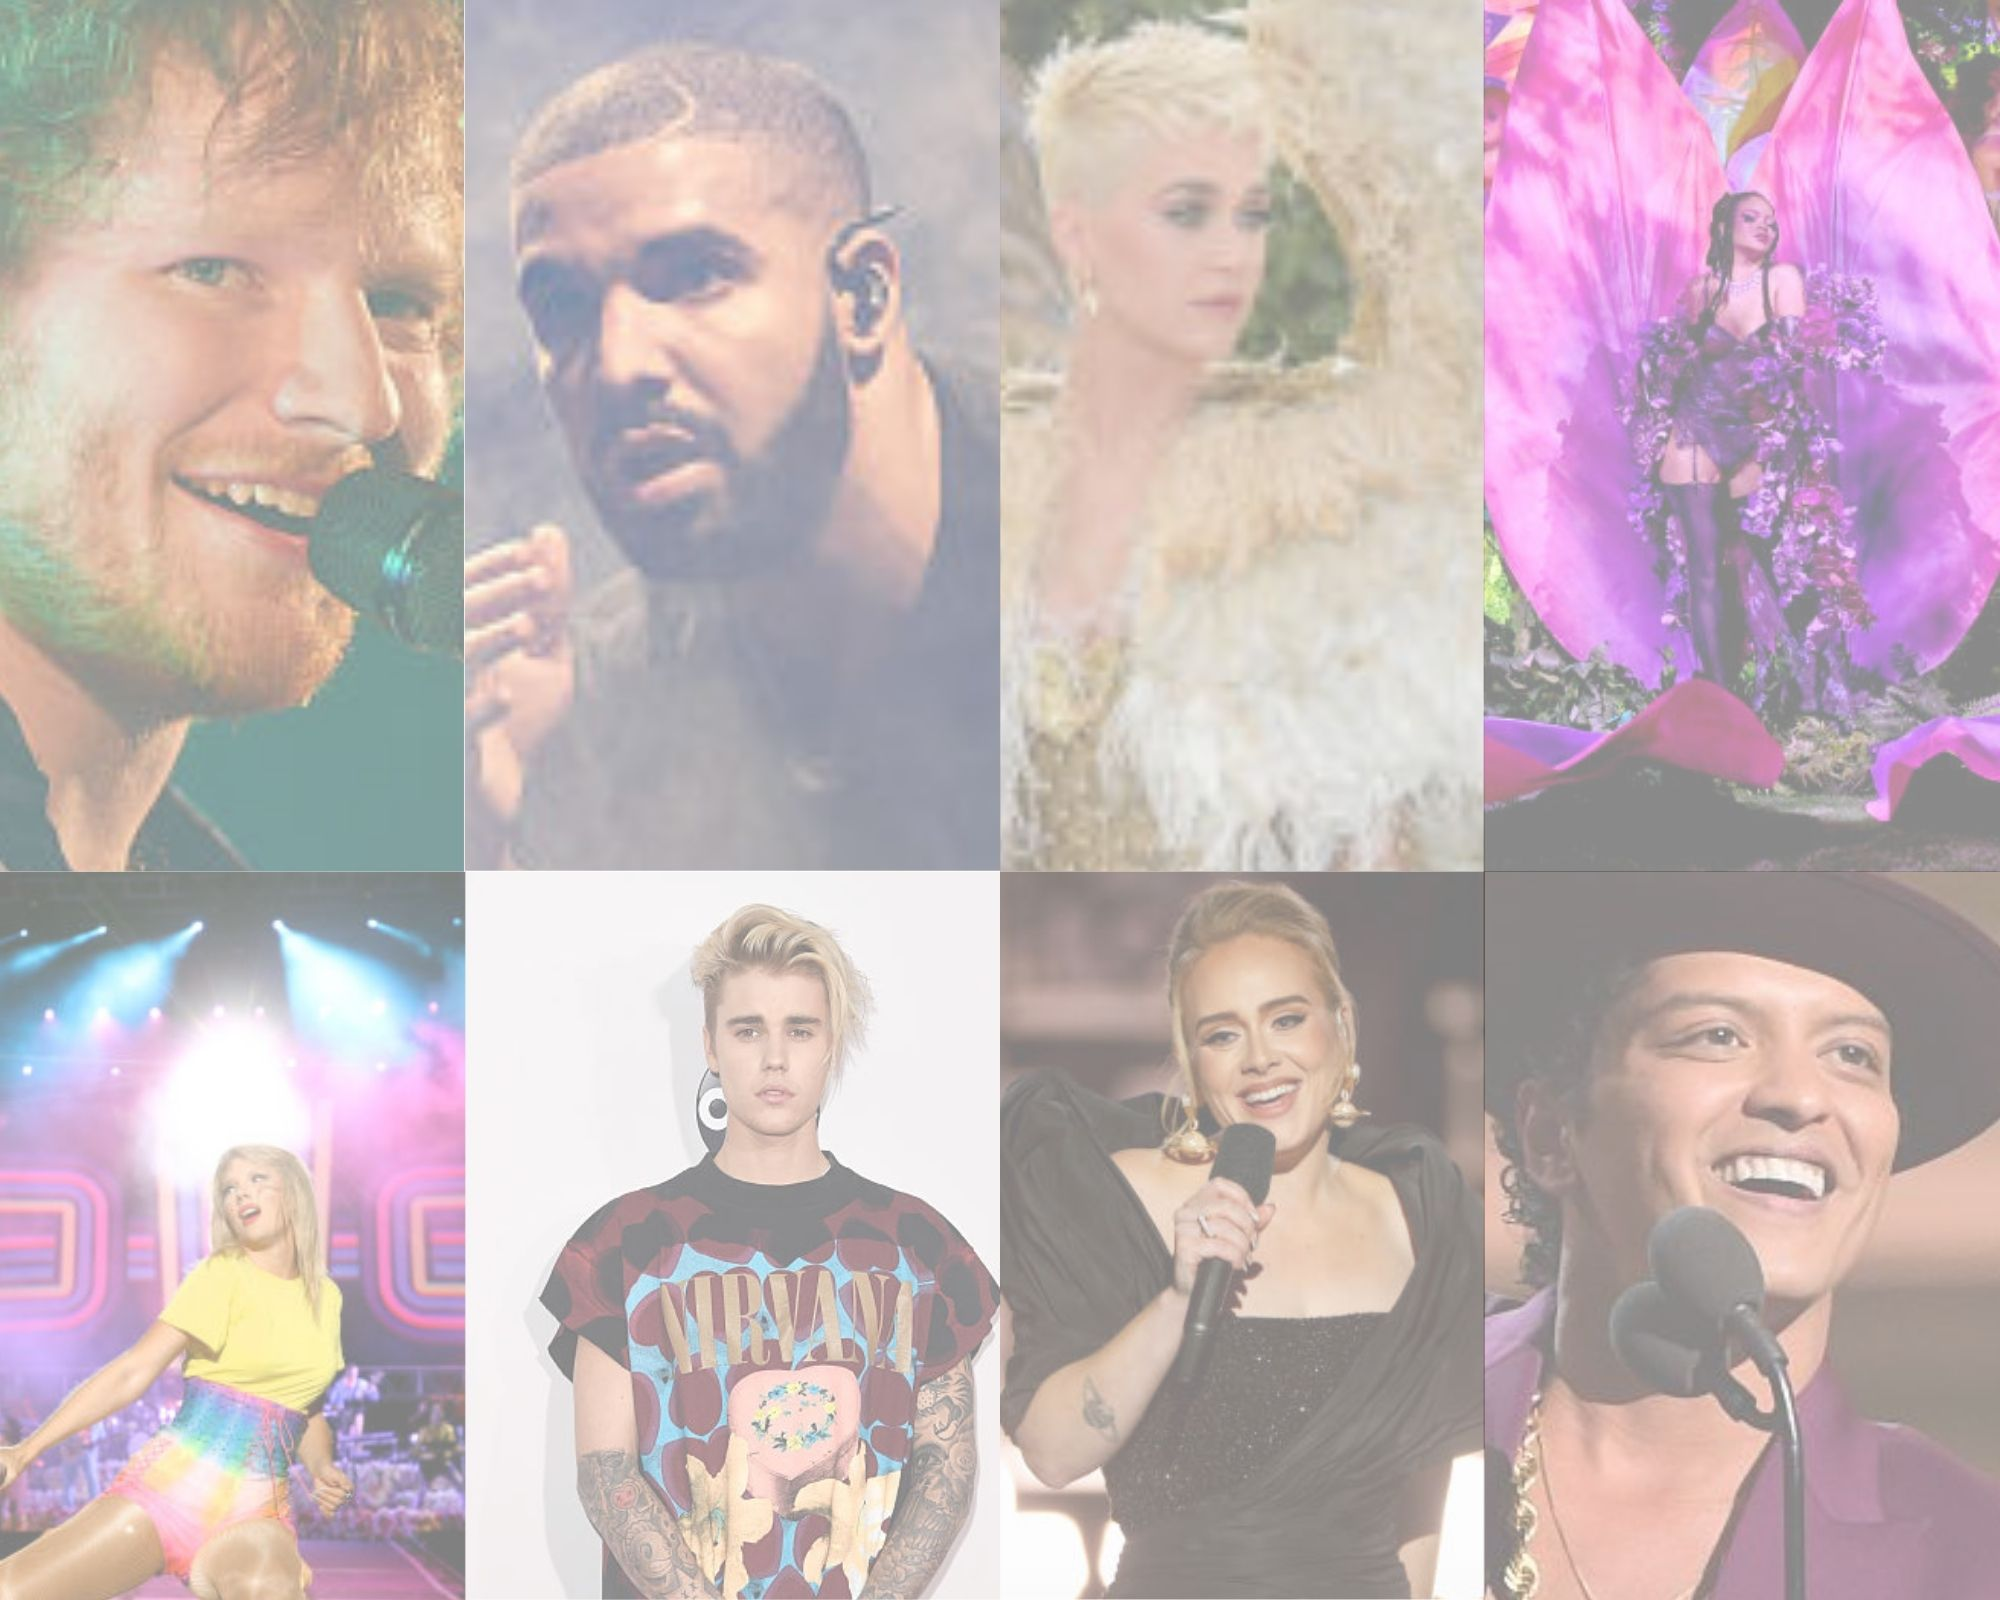
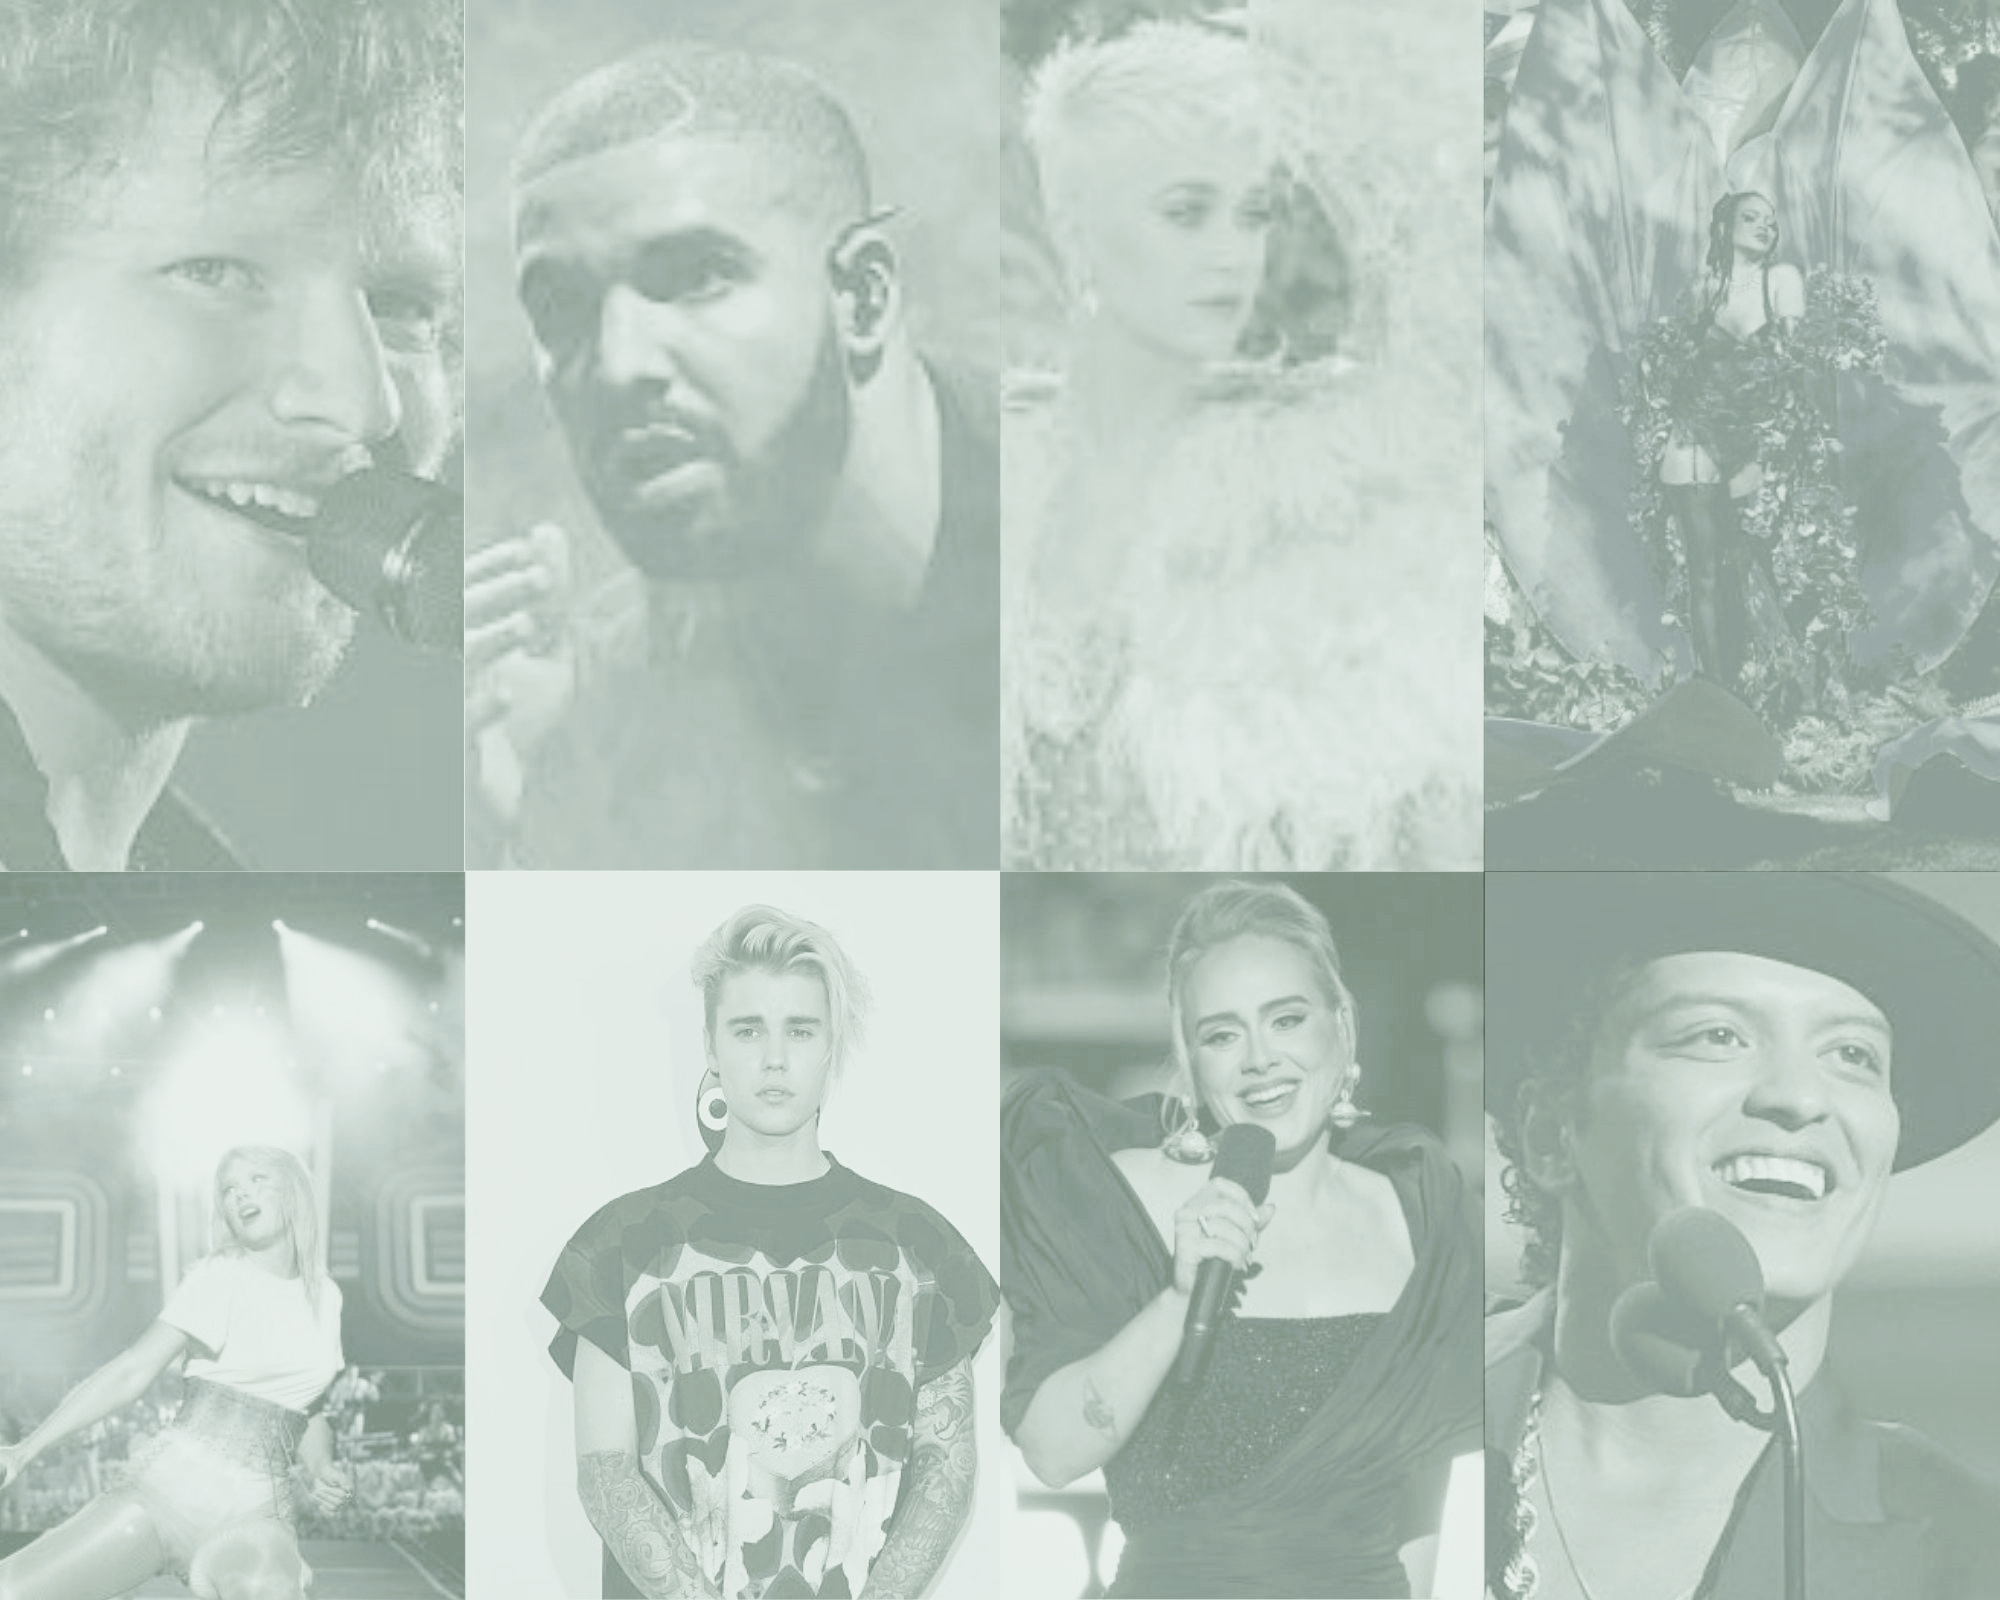
black and white

diff --git a/assets/css/style.css b/assets/css/style.css
@@ -2,12 +2,18 @@
     
     --border-radius: .3rem;
   }
+body {
+  margin: 0;
+  background-image: url('../img/8ofthedecade.jpg');
+  background-size: contain;
+}
+
 .hero {
     background-image: url("../img/youarewhatyoulistentoo4.jpg");
     background-size: cover;
+    border: 0deg, rgba(245,136,92,1) 34%, rgba(253,187,45,1) 100% 15px;
+    
 }
-
-
 
 h2 {
     font-size: 32px;
